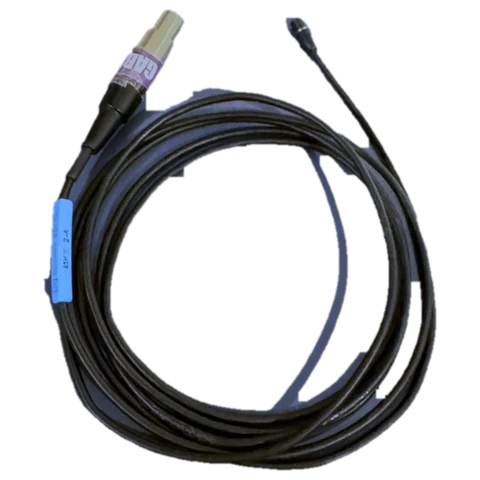
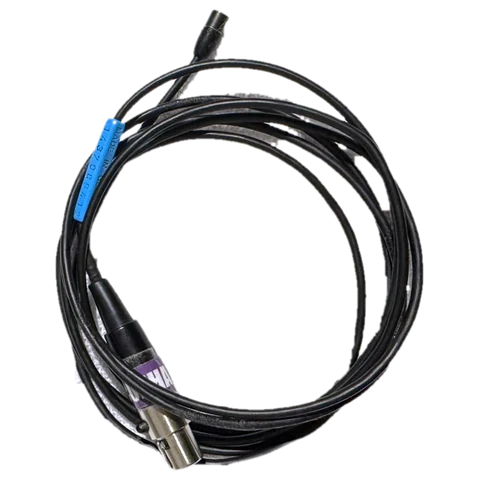
v2.06: fotos novas das capsulas da Gabi
Claude-Session: https://claude.ai/code/session_01BhtL332448fDQDCKgyvfQU

Changed region(s): [[0.0938, 0.0, 0.9375, 1.0]]

diff --git a/index.html b/index.html
@@ -617,7 +617,7 @@ ul.imd{font-size:.84rem;margin:.3rem 0 0;padding-left:1.2rem}
 </head>
 <body>
 <header class="top">
-  <div><h1>Perícia Lab · Carômetro</h1><small>Quem está com qual transmissor e cápsula, episódio a episódio · <span id="versao">v2.05 · 16/11 17:50</span></small></div>
+  <div><h1>Perícia Lab · Carômetro</h1><small>Quem está com qual transmissor e cápsula, episódio a episódio · <span id="versao">v2.06 · 16/11 18:05</span></small></div>
   <div class="sp"></div>
   <button class="pill" id="status" type="button" data-act="sync">carregando…</button>
 </header>

diff --git a/CHANGELOG.md b/CHANGELOG.md
@@ -26,6 +26,9 @@
 
 
 
+## v2.06 · 16/11/2026
+- Fotos das cápsulas da Gabi trocadas pelas novas, em fundo branco.
+
 ## v2.05 · 16/11/2026
 - Foto da COS11D R (bege, Lemo 3) no inventário.
 
